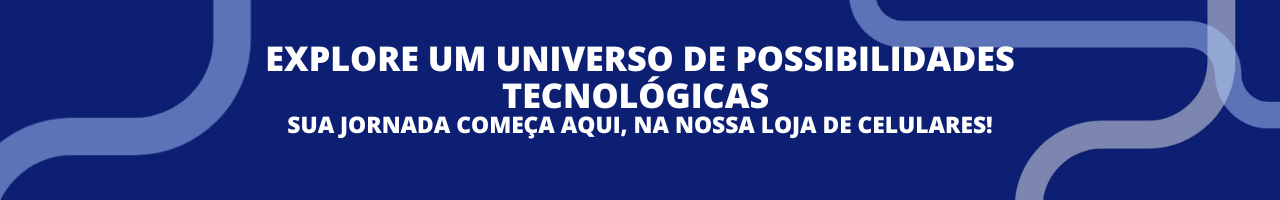
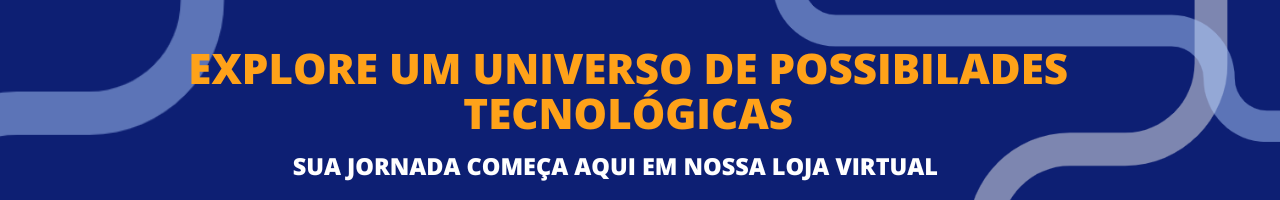
faixa

diff --git a/principal.css b/principal.css
@@ -94,7 +94,7 @@ footer {
 .circle {
   width: 200px;
   height: 200px;
-  background-color: rgba(128, 128, 128, 0.481);
+  background-color: #ffa319b8;
   border-radius: 50%;
   display: flex;
   justify-content: center;

diff --git a/index.php b/index.php
@@ -36,7 +36,7 @@
         <div class="teste">
             <a class="avatar" href="login.php"><img src="./img/avatar.png" alt="Imagem" width="25px" ></a>
         </div>  
-        <img id="banner" src="img/faixao.png">
+        <img id="banner" src="img/faixa.png">
         <div class="circle-container">
             <div class="circle-desc">
                 <div class="circle">
